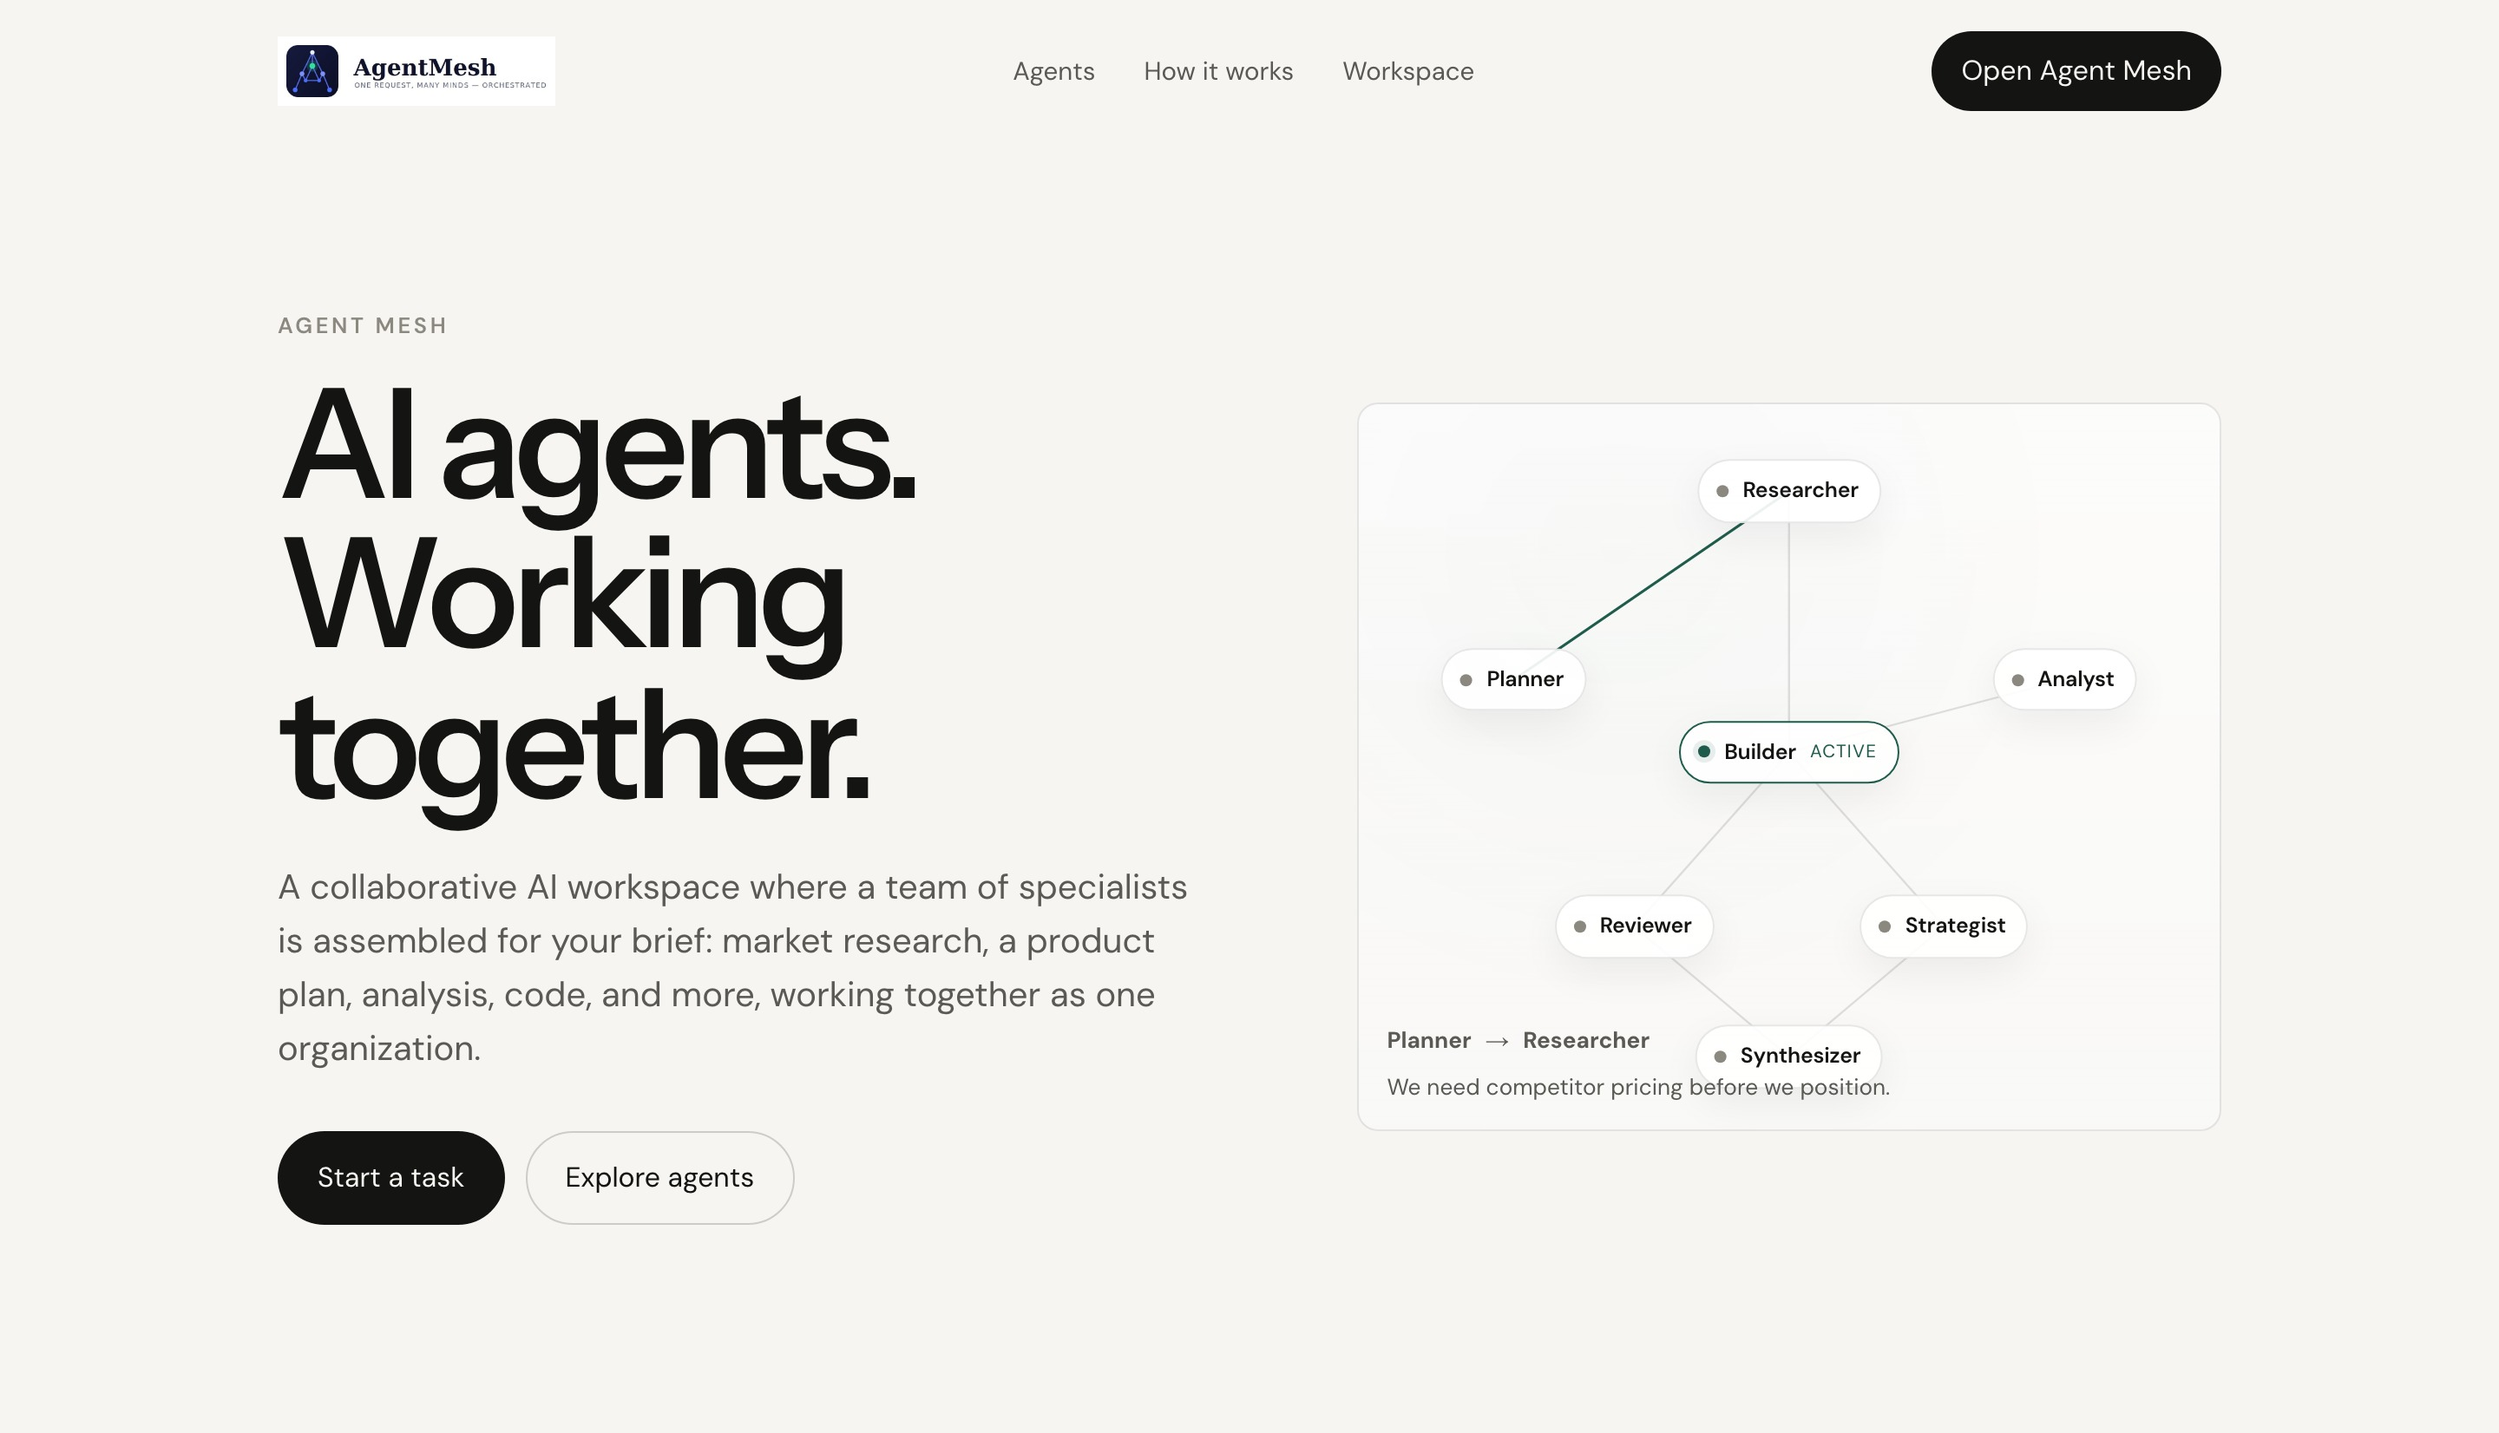
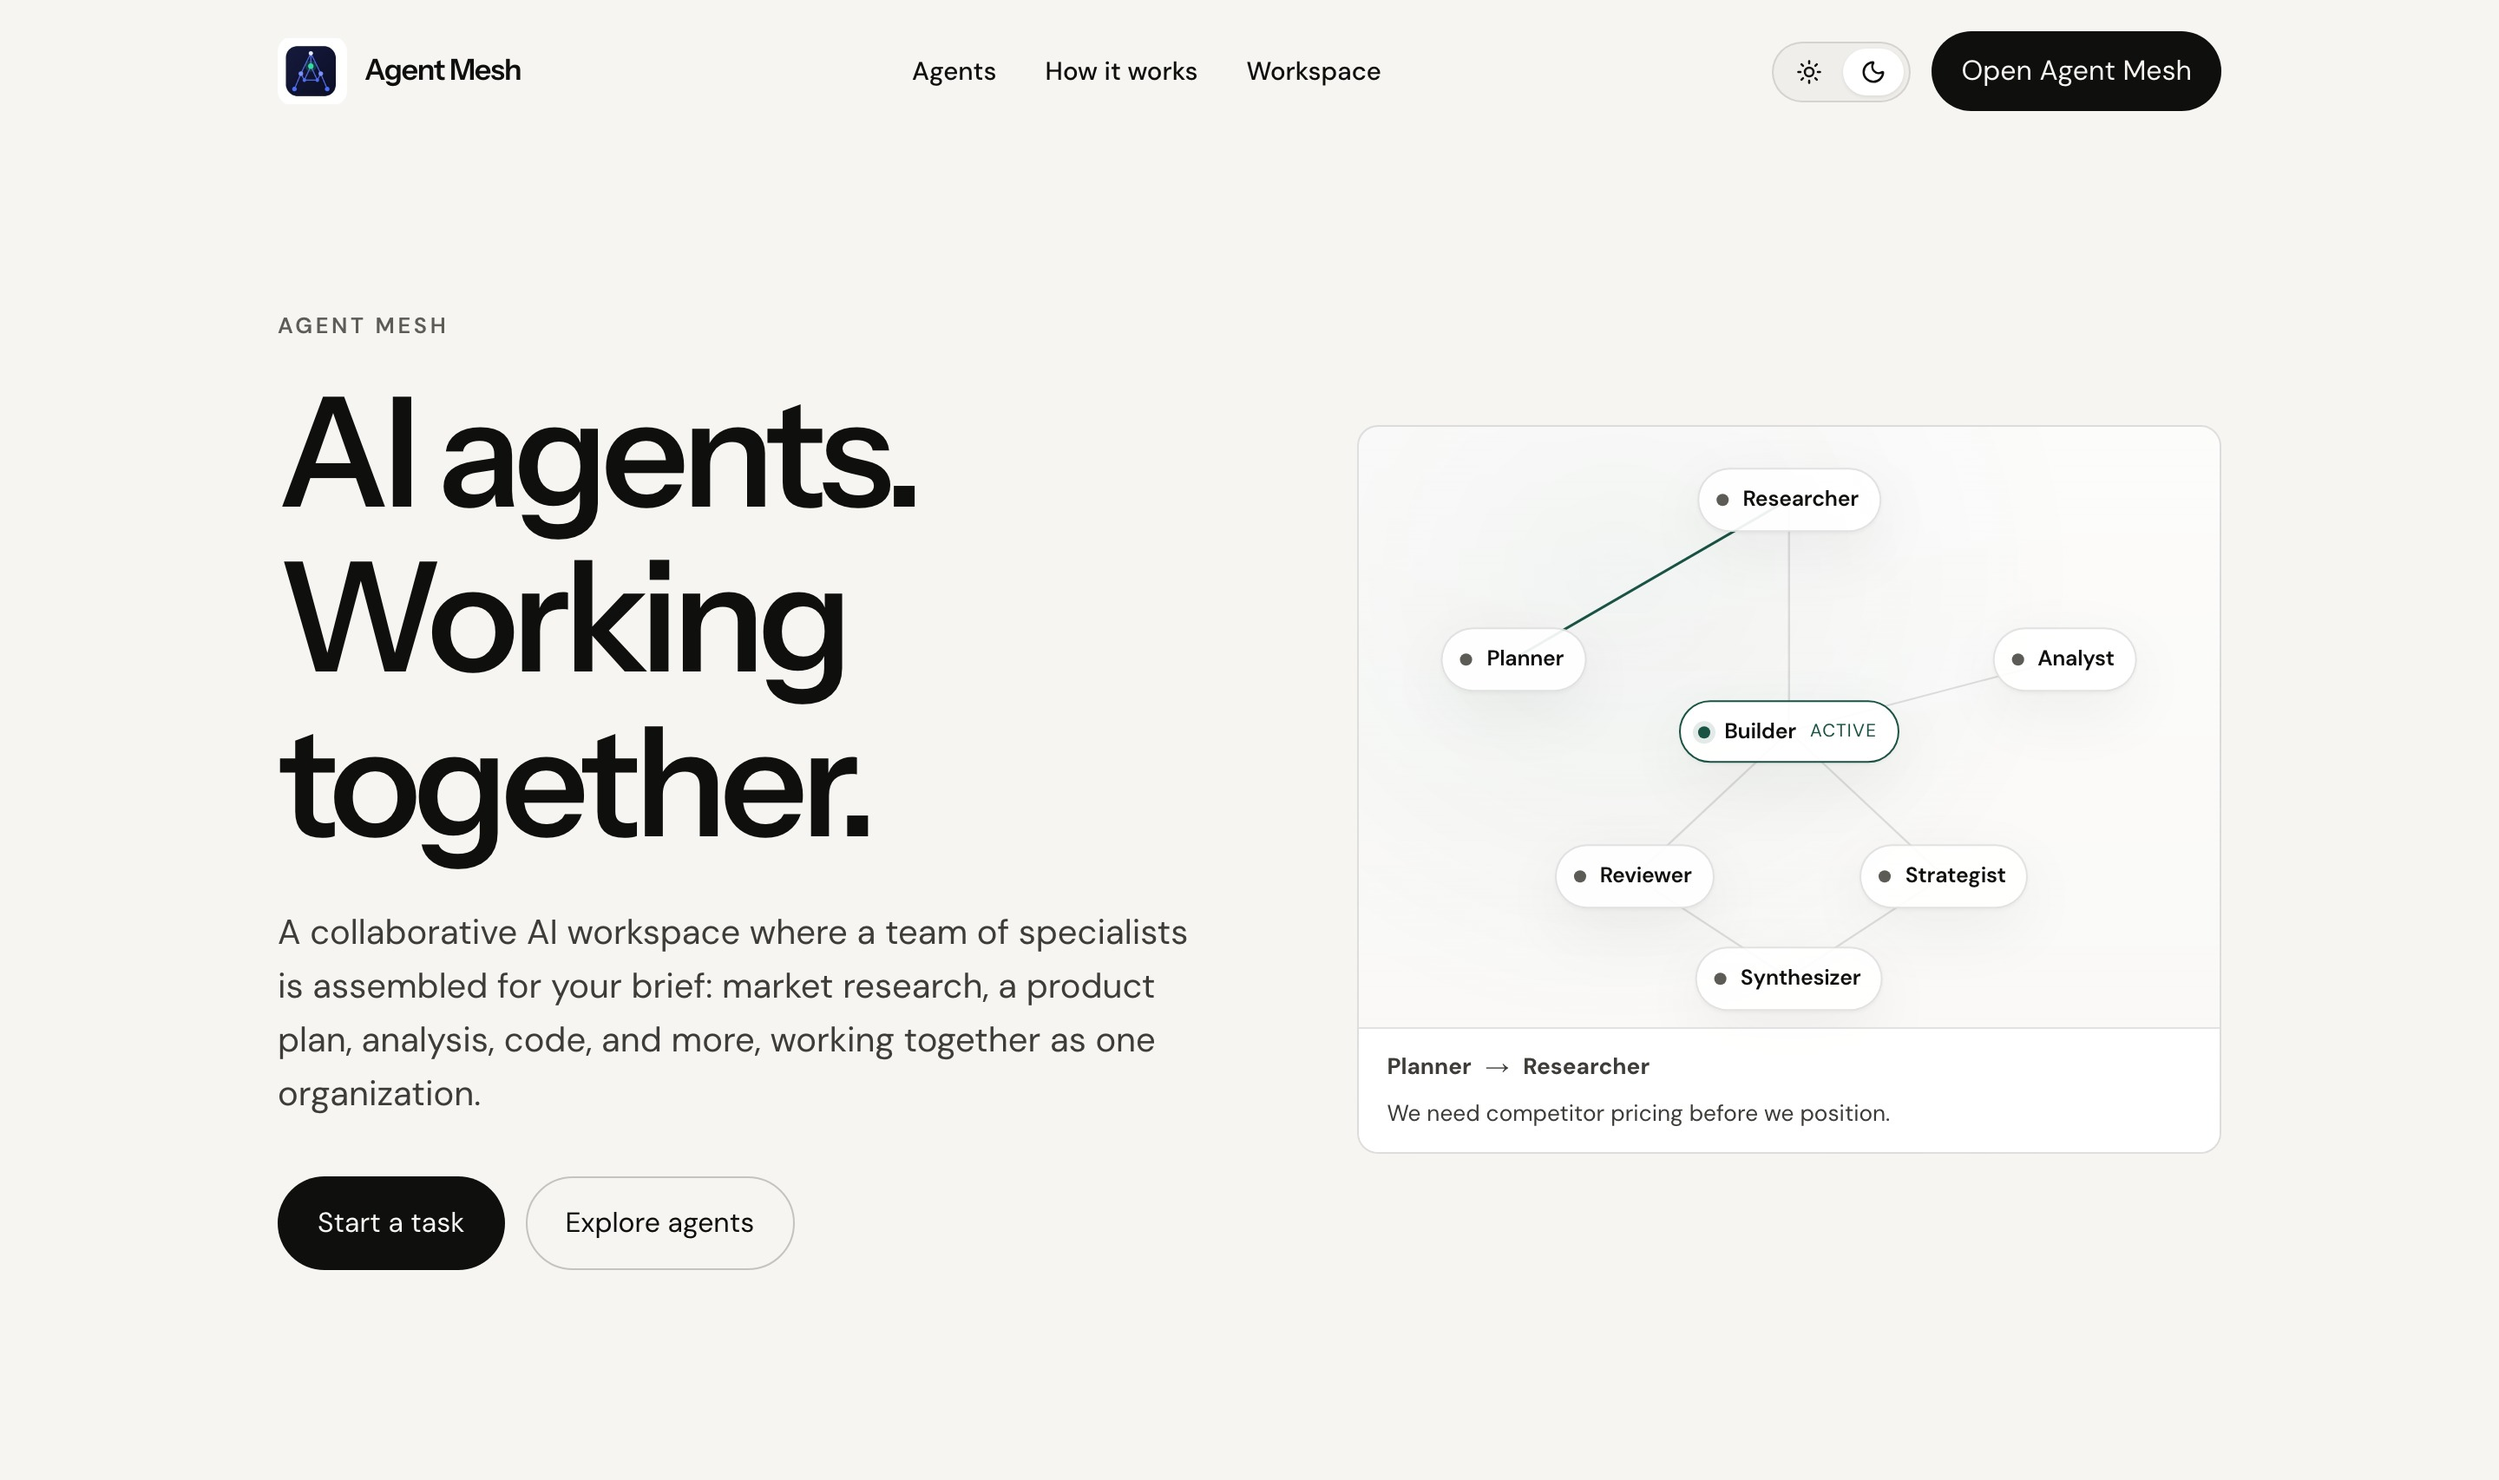
docs: refresh README screenshots for light/dark theme UI
Recapture marketing and office views with the current logo, contrast, and theme toggle so the README matches the live product.

diff --git a/README.md b/README.md
@@ -9,31 +9,31 @@ output, and synthesises a single result.
 ## Screenshots
 
 <p align="center">
-  <img src="docs/images/01-hero.jpg" alt="Agent Mesh — product hero" width="900" />
+  <img src="docs/images/01-hero.jpg" alt="Agent Mesh marketing hero — light theme with agent network" width="900" />
 </p>
 
 <p align="center">
-  <img src="docs/images/02-agents.jpg" alt="Specialist agents" width="900" />
+  <img src="docs/images/02-agents.jpg" alt="Specialist agent roster" width="900" />
 </p>
 
 <p align="center">
-  <img src="docs/images/03-workflow.jpg" alt="Workflow — brief to result" width="900" />
+  <img src="docs/images/03-workflow.jpg" alt="Workflow from brief to result" width="900" />
 </p>
 
 <p align="center">
-  <img src="docs/images/04-communication.jpg" alt="Agents talk to each other" width="900" />
+  <img src="docs/images/04-communication.jpg" alt="Agents collaborating over the mesh" width="900" />
 </p>
 
 <p align="center">
-  <img src="docs/images/05-workspace.jpg" alt="One workspace" width="900" />
+  <img src="docs/images/05-workspace.jpg" alt="One workspace for tasks, agents, and artifacts" width="900" />
 </p>
 
 <p align="center">
-  <img src="docs/images/06-office.jpg" alt="Office workspace" width="900" />
+  <img src="docs/images/06-office.jpg" alt="Office workspace — start a task" width="900" />
 </p>
 
 <p align="center">
-  <img src="docs/images/07-settings.jpg" alt="Provider settings" width="900" />
+  <img src="docs/images/07-settings.jpg" alt="Settings — light/dark theme and AI providers" width="900" />
 </p>
 
 It is not a chat interface that sends the same prompt to several models. The product is
